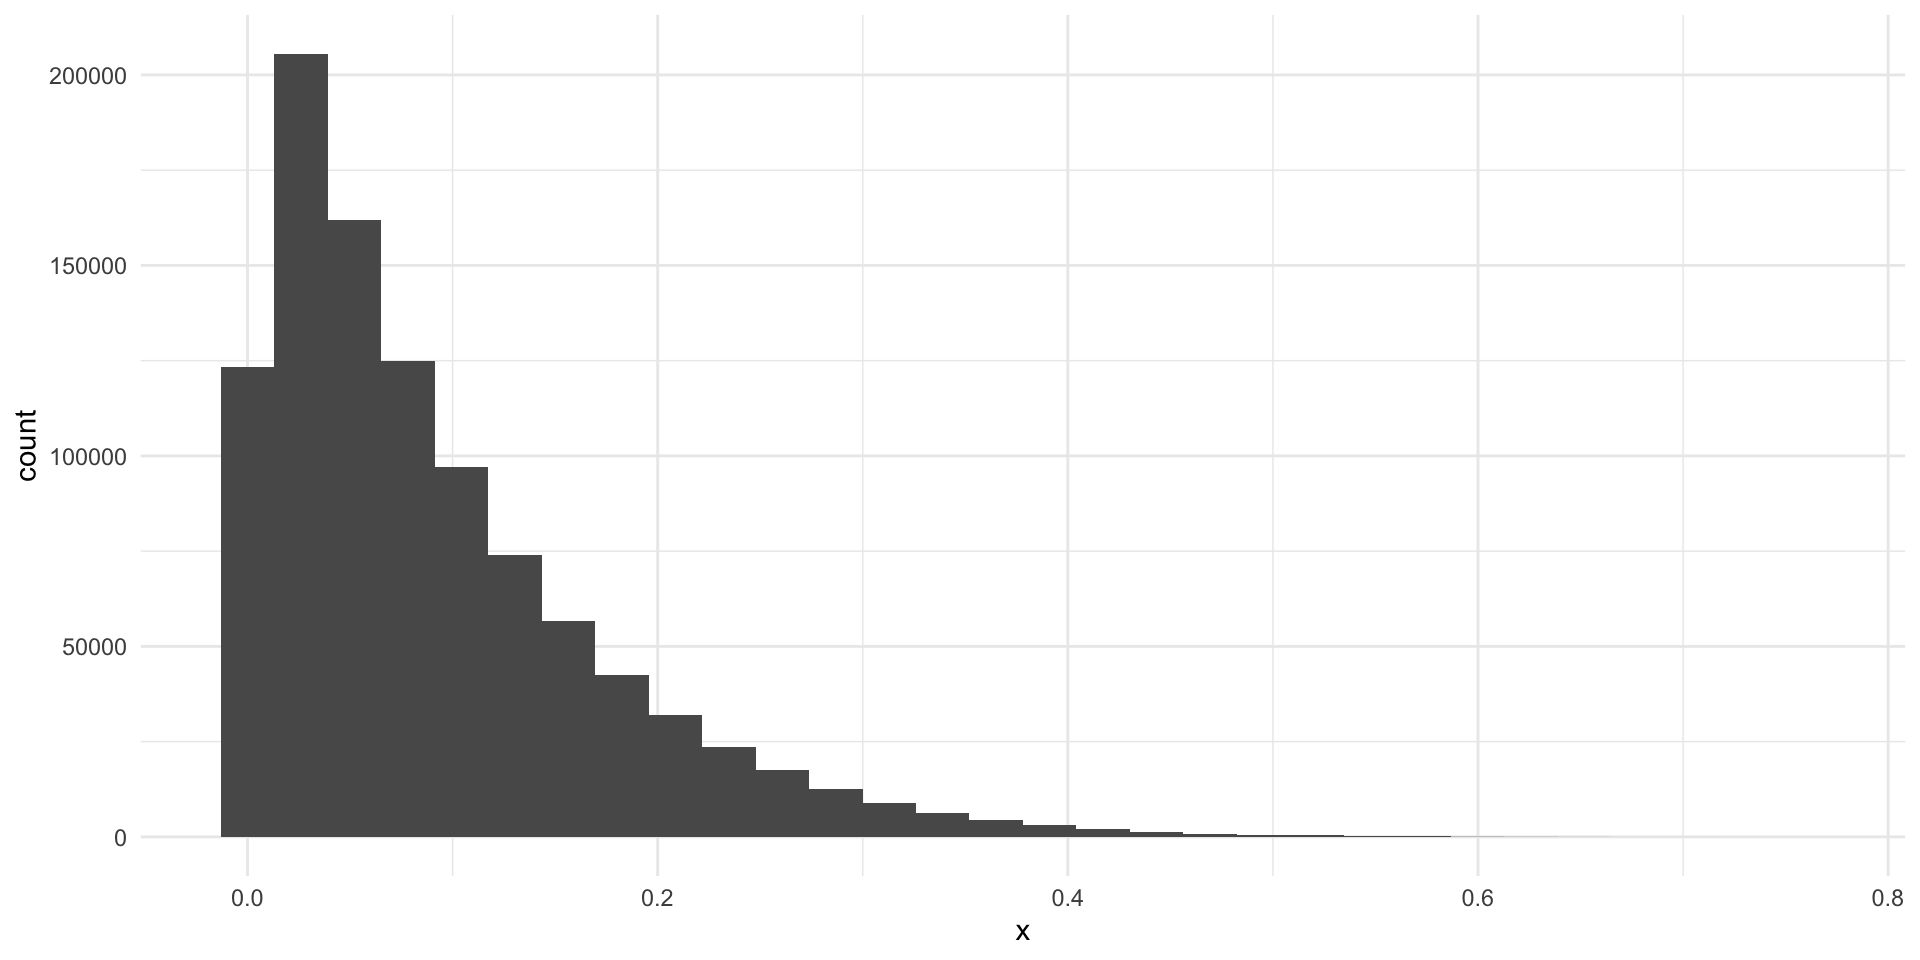
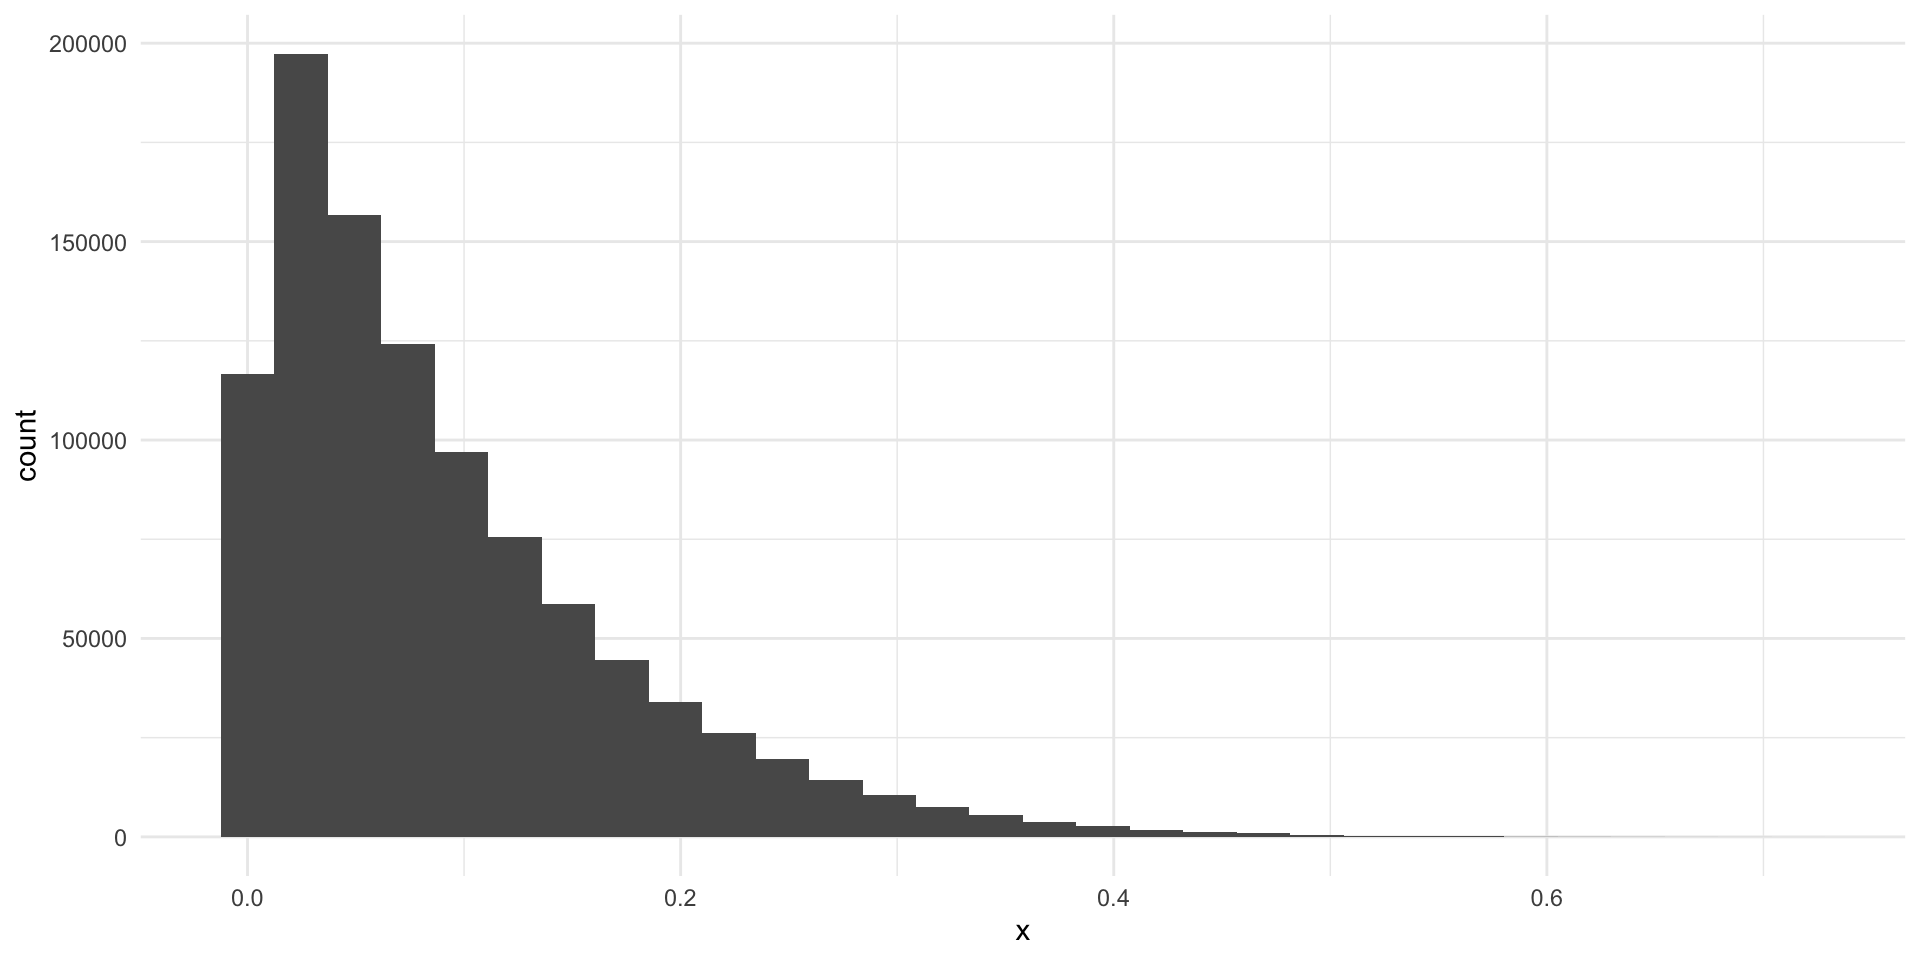
Fix broken PS link

diff --git a/docs/content/02-descriptive_statistics.html b/docs/content/02-descriptive_statistics.html
@@ -882,18 +882,18 @@ Tip
 <span id="cb27-10"><a href="#cb27-10" aria-hidden="true" tabindex="-1"></a>wide_var_calc</span></code><button title="Copy to Clipboard" class="code-copy-button"><i class="bi"></i></button></pre></div>
 <div class="cell-output cell-output-stdout">
 <pre><code># A tibble: 1,000,000 × 4
-        x     mean   diff diff_2
-    &lt;dbl&gt;    &lt;dbl&gt;  &lt;dbl&gt;  &lt;dbl&gt;
- 1 -0.306 0.000350 -0.306 0.0937
- 2  0.160 0.000350  0.160 0.0256
- 3  0.448 0.000350  0.448 0.201 
- 4  2.22  0.000350  2.22  4.92  
- 5 -2.04  0.000350 -2.04  4.17  
- 6  2.51  0.000350  2.51  6.31  
- 7  0.399 0.000350  0.398 0.159 
- 8 -0.673 0.000350 -0.674 0.454 
- 9 -1.65  0.000350 -1.65  2.74  
-10 -0.900 0.000350 -0.901 0.811 
+        x    mean   diff diff_2
+    &lt;dbl&gt;   &lt;dbl&gt;  &lt;dbl&gt;  &lt;dbl&gt;
+ 1  1.03  0.00113  1.03   1.07 
+ 2  1.33  0.00113  1.32   1.75 
+ 3  1.52  0.00113  1.51   2.29 
+ 4 -1.35  0.00113 -1.35   1.83 
+ 5  2.62  0.00113  2.62   6.86 
+ 6  0.628 0.00113  0.627  0.393
+ 7  1.19  0.00113  1.19   1.42 
+ 8  5.53  0.00113  5.53  30.6  
+ 9 -3.51  0.00113 -3.52  12.4  
+10 -0.734 0.00113 -0.735  0.541
 # ℹ 999,990 more rows</code></pre>
 </div>
 </div>
@@ -903,7 +903,7 @@ Tip
 <span id="cb29-2"><a href="#cb29-2" aria-hidden="true" tabindex="-1"></a></span>
 <span id="cb29-3"><a href="#cb29-3" aria-hidden="true" tabindex="-1"></a>wide_var</span></code><button title="Copy to Clipboard" class="code-copy-button"><i class="bi"></i></button></pre></div>
 <div class="cell-output cell-output-stdout">
-<pre><code>[1] 3.99724</code></pre>
+<pre><code>[1] 3.999706</code></pre>
 </div>
 </div>
 <p>We can compare this to the variance for our narrower distribution.</p>
@@ -919,7 +919,7 @@ Tip
 <span id="cb31-9"><a href="#cb31-9" aria-hidden="true" tabindex="-1"></a></span>
 <span id="cb31-10"><a href="#cb31-10" aria-hidden="true" tabindex="-1"></a>narrow_var</span></code><button title="Copy to Clipboard" class="code-copy-button"><i class="bi"></i></button></pre></div>
 <div class="cell-output cell-output-stdout">
-<pre><code>[1] 0.9986477</code></pre>
+<pre><code>[1] 0.9994551</code></pre>
 </div>
 </div>
 <p>It is, in fact, smaller!</p>
@@ -927,15 +927,15 @@ Tip
 <div class="cell">
 <div class="sourceCode cell-code" id="cb33"><pre class="sourceCode r code-with-copy"><code class="sourceCode r"><span id="cb33-1"><a href="#cb33-1" aria-hidden="true" tabindex="-1"></a><span class="fu">var</span>(wide_dist)</span></code><button title="Copy to Clipboard" class="code-copy-button"><i class="bi"></i></button></pre></div>
 <div class="cell-output cell-output-stdout">
-<pre><code>        x
-x 3.99724</code></pre>
+<pre><code>         x
+x 3.999706</code></pre>
 </div>
 </div>
 <div class="cell">
 <div class="sourceCode cell-code" id="cb35"><pre class="sourceCode r code-with-copy"><code class="sourceCode r"><span id="cb35-1"><a href="#cb35-1" aria-hidden="true" tabindex="-1"></a><span class="fu">var</span>(narrow_dist)</span></code><button title="Copy to Clipboard" class="code-copy-button"><i class="bi"></i></button></pre></div>
 <div class="cell-output cell-output-stdout">
 <pre><code>          x
-x 0.9986477</code></pre>
+x 0.9994551</code></pre>
 </div>
 </div>
 <div class="cell">
@@ -952,26 +952,26 @@ x TRUE</code></pre>
 <div class="cell">
 <div class="sourceCode cell-code" id="cb39"><pre class="sourceCode r code-with-copy"><code class="sourceCode r"><span id="cb39-1"><a href="#cb39-1" aria-hidden="true" tabindex="-1"></a><span class="fu">sqrt</span>(wide_var)</span></code><button title="Copy to Clipboard" class="code-copy-button"><i class="bi"></i></button></pre></div>
 <div class="cell-output cell-output-stdout">
-<pre><code>[1] 1.99931</code></pre>
+<pre><code>[1] 1.999927</code></pre>
 </div>
 </div>
 <div class="cell">
 <div class="sourceCode cell-code" id="cb41"><pre class="sourceCode r code-with-copy"><code class="sourceCode r"><span id="cb41-1"><a href="#cb41-1" aria-hidden="true" tabindex="-1"></a><span class="fu">sqrt</span>(narrow_var)</span></code><button title="Copy to Clipboard" class="code-copy-button"><i class="bi"></i></button></pre></div>
 <div class="cell-output cell-output-stdout">
-<pre><code>[1] 0.9993236</code></pre>
+<pre><code>[1] 0.9997275</code></pre>
 </div>
 </div>
 <p>You can get this directly using <code>sd()</code>:</p>
 <div class="cell">
 <div class="sourceCode cell-code" id="cb43"><pre class="sourceCode r code-with-copy"><code class="sourceCode r"><span id="cb43-1"><a href="#cb43-1" aria-hidden="true" tabindex="-1"></a><span class="fu">sd</span>(wide_dist<span class="sc">$</span>x)</span></code><button title="Copy to Clipboard" class="code-copy-button"><i class="bi"></i></button></pre></div>
 <div class="cell-output cell-output-stdout">
-<pre><code>[1] 1.99931</code></pre>
+<pre><code>[1] 1.999927</code></pre>
 </div>
 </div>
 <div class="cell">
 <div class="sourceCode cell-code" id="cb45"><pre class="sourceCode r code-with-copy"><code class="sourceCode r"><span id="cb45-1"><a href="#cb45-1" aria-hidden="true" tabindex="-1"></a><span class="fu">sd</span>(narrow_dist<span class="sc">$</span>x)</span></code><button title="Copy to Clipboard" class="code-copy-button"><i class="bi"></i></button></pre></div>
 <div class="cell-output cell-output-stdout">
-<pre><code>[1] 0.9993236</code></pre>
+<pre><code>[1] 0.9997275</code></pre>
 </div>
 </div>
 <p>If you look back to our graphs, you will see that I set the standard deviations explicitly when I generated the data: <code>rnorm()</code> takes an <code>sd</code> argument. This is great because we can confirm that the standard deviations for the wide and narrow distributions are 2 and 1 respectively (with a little bit of randomnoise).</p>
@@ -1015,12 +1015,12 @@ Tip
 <pre><code># A tibble: 6 × 1
       x
   &lt;dbl&gt;
-1  5.35
-2  1.83
-3  5.21
-4  4.00
-5  8.03
-6  4.46</code></pre>
+1  6.70
+2  3.89
+3  4.65
+4  4.10
+5  2.33
+6  4.71</code></pre>
 </div>
 </div>
 <div class="callout callout-style-default callout-note callout-titled">
@@ -1090,12 +1090,12 @@ z_i = \frac{x_i - \mu_x}{\sigma_x}
 <pre><code># A tibble: 6 × 4
       x  mean    sd z_score
   &lt;dbl&gt; &lt;dbl&gt; &lt;dbl&gt;   &lt;dbl&gt;
-1  5.35  5.00  2.00   0.173
-2  1.83  5.00  2.00  -1.59 
-3  5.21  5.00  2.00   0.103
-4  4.00  5.00  2.00  -0.500
-5  8.03  5.00  2.00   1.52 
-6  4.46  5.00  2.00  -0.273</code></pre>
+1  6.70  5.00  2.00   0.853
+2  3.89  5.00  2.00  -0.556
+3  4.65  5.00  2.00  -0.176
+4  4.10  5.00  2.00  -0.451
+5  2.33  5.00  2.00  -1.33 
+6  4.71  5.00  2.00  -0.144</code></pre>
 </div>
 </div>
 <p>We can confirm this:</p>

diff --git a/docs/schedule.html b/docs/schedule.html
@@ -161,7 +161,7 @@ ul.task-list li input[type="checkbox"] {
 <td style="text-align: left; width: 52%;">Descriptive Statistics</td>
 <td style="text-align: center; width: 12%;"><a href="https://hgoers.github.io/GVPT622/content/02-descriptive_statistics.html"><i class="fa-solid fa-book" aria-label="book"></i></a></td>
 <td style="text-align: center; width: 12%;"><a href="https://hgoers.github.io/GVPT622/content/02-descriptive_statistics.html#section"><i class="fa-solid fa-gears" aria-label="gears"></i></a></td>
-<td style="text-align: center; width: 12%;"><a href="https://github.com/hgoers/GVPT622_problem_sets/blob/main/https://github.com/hgoers/GVPT622_problem_sets/blob/main/problem_set_1.qmd"><i class="fa-solid fa-pen-ruler" aria-label="pen-ruler"></i></a></td>
+<td style="text-align: center; width: 12%;"><a href="https://github.com/hgoers/GVPT622_problem_sets/blob/main/https://github.com/hgoers/GVPT622_problem_sets/blob/6839aa3d445c880d420354218133a1d462e5c444/problem_set_1.qmd"><i class="fa-solid fa-pen-ruler" aria-label="pen-ruler"></i></a></td>
 </tr>
 <tr class="even">
 <td style="text-align: left; width: 12%; padding-right: 20px;">2023-09-18</td>
